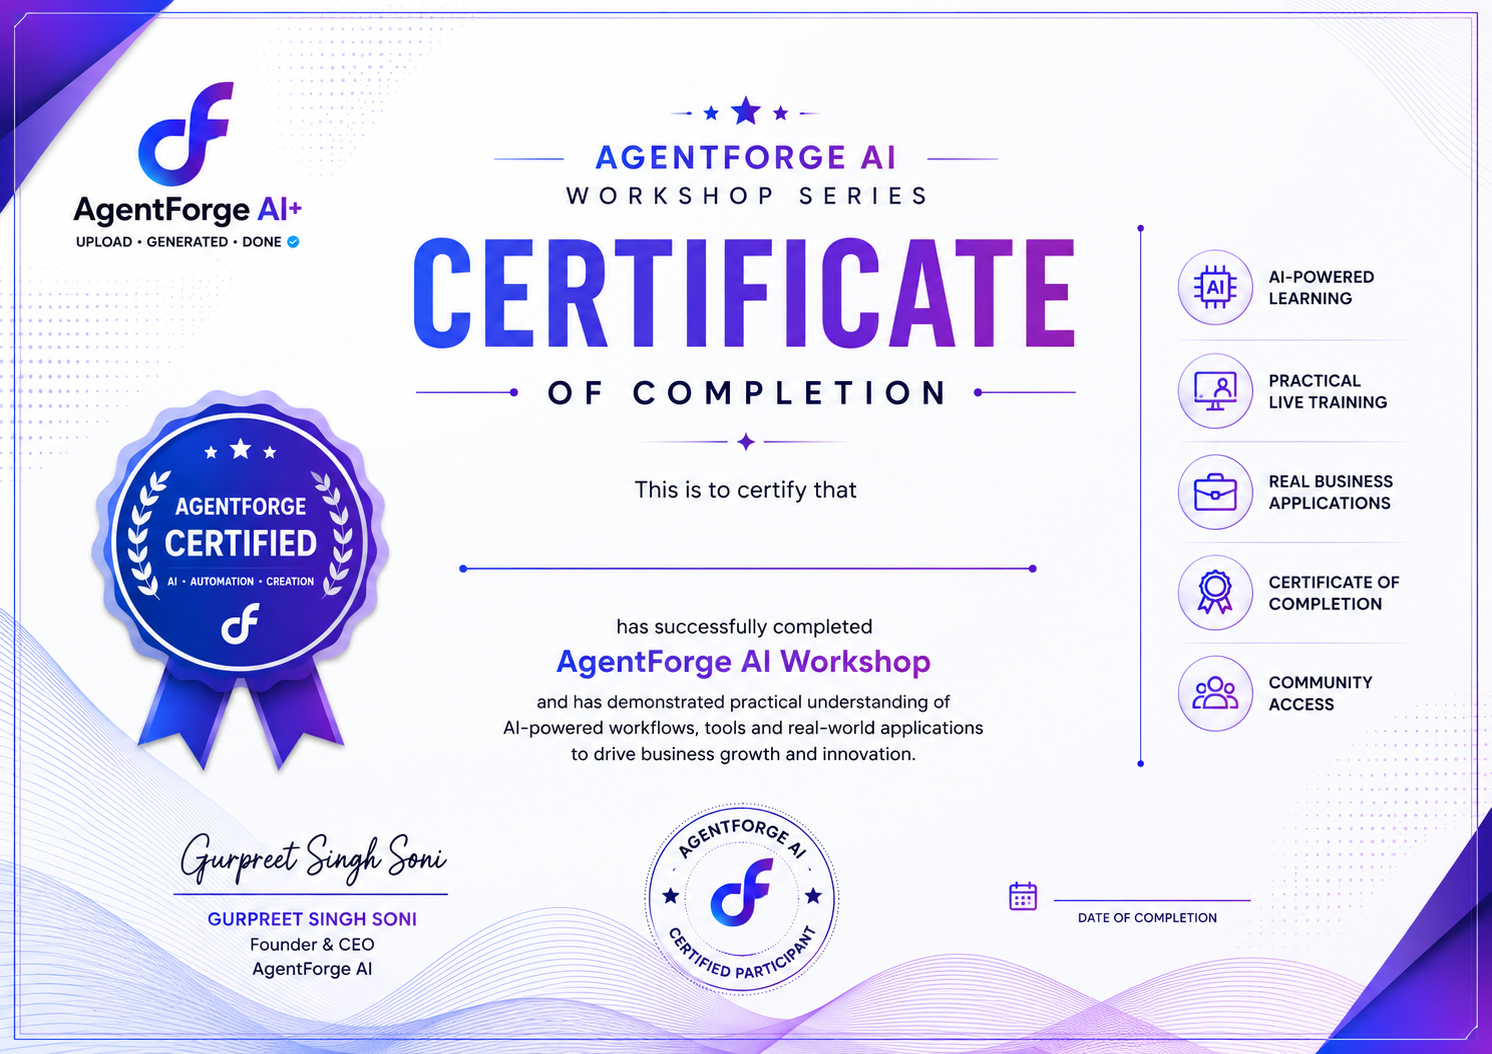
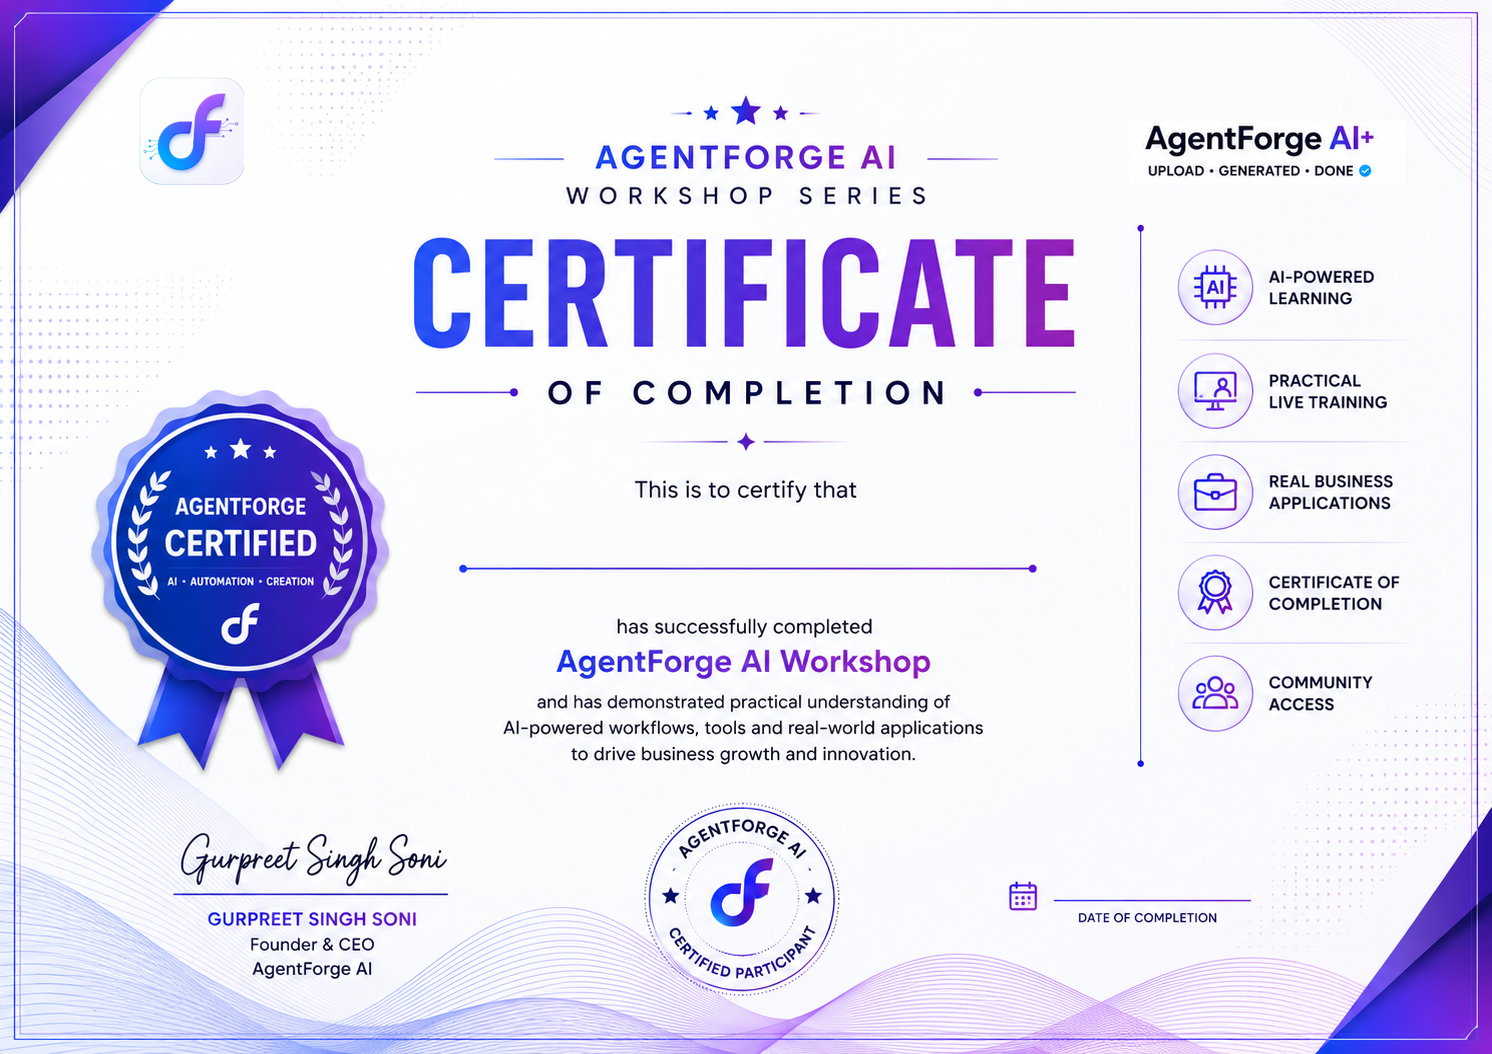
feat(certificate): new template, date locking, download logging

Changed region(s): [[0.0308, 0.0607, 0.2158, 0.2429], [0.7708, 0.1214, 0.9249, 0.1822]]

diff --git a/app/workshop/certificate/page.tsx b/app/workshop/certificate/page.tsx
@@ -1,22 +1,45 @@
 "use client";
 
 // Workshop certificate generator.
-// User apna naam + date bharte hain, preview dikhta hai, aur original
-// certificate template (public/Workshop/certificate-template.png) ke
-// upar naam/date overlay karke PDF download ho jaata hai.
+// Candidate enters name + email + picks a workshop date, sees a live
+// preview, and downloads the official certificate as a PDF. Each
+// download is logged to the backend (name, email, date).
 
 import { useEffect, useRef, useState } from "react";
 
-const TEMPLATE_SRC = "/Workshop/certificate-template.png";
+// ?v bump karo jab bhi template image replace karo — taaki browser
+// purani cached image na dikhaye.
+const TEMPLATE_SRC = "/Workshop/certificate-template.png?v=2";
 
-// Placement (template ke width/height ke fraction me). Preview dekh ke
-// agar thoda upar/neeche/left/right chahiye to ye 4 number tweak kar do.
-const NAME_X = 0.515;
-const NAME_Y = 0.595;
-const DATE_X = 0.805;
-const DATE_Y = 0.82;
+// Placement (as a fraction of the template width/height). Tweak these
+// four numbers if the name/date needs nudging on the certificate.
+const NAME_X = 0.505;
+const NAME_Y = 0.505;
+const DATE_X = 0.77;
+const DATE_Y = 0.815;
 
-// Name font ke liye elegant serif Google se load karte hain.
+// Fixed workshop dates — candidate can only pick one of these four.
+const WORKSHOP_DATES = [
+  { value: "2026-06-20", label: "20 June 2026" },
+  { value: "2026-06-21", label: "21 June 2026" },
+  { value: "2026-06-27", label: "27 June 2026" },
+  { value: "2026-06-28", label: "28 June 2026" },
+];
+
+// Decorative background doodles.
+const DOODLES = [
+  { icon: "🧵", left: "6%", top: "14%" },
+  { icon: "✂", left: "16%", top: "70%" },
+  { icon: "🪡", left: "30%", top: "22%" },
+  { icon: "👕", left: "44%", top: "78%" },
+  { icon: "🎓", left: "58%", top: "16%" },
+  { icon: "🧶", left: "70%", top: "72%" },
+  { icon: "🏆", left: "84%", top: "24%" },
+  { icon: "✨", left: "90%", top: "62%" },
+  { icon: "🧣", left: "10%", top: "44%" },
+  { icon: "📜", left: "78%", top: "46%" },
+];
+
 const FONT_FAMILY = '"Playfair Display", Georgia, serif';
 const FONT_CSS =
   "https://fonts.googleapis.com/css2?family=Playfair+Display:wght@700&display=swap";
@@ -35,7 +58,6 @@ function loadScript(src: string): Promise<boolean> {
 }
 
 function formatDate(value: string): string {
-  // value = "yyyy-mm-dd" from <input type="date">
   if (!value) return "";
   const [y, m, d] = value.split("-").map(Number);
   const months = [
@@ -46,18 +68,46 @@ function formatDate(value: string): string {
   return `${d} ${months[m - 1]} ${y}`;
 }
 
+// Dates unlock one-by-one. Date 20 (index 0) is always enabled.
+// Each next date unlocks once the PREVIOUS workshop date has arrived.
+// Returns the highest enabled index (the latest unlocked date).
+function computeEnabledIdx(): number {
+  const today = new Date();
+  today.setHours(0, 0, 0, 0);
+  let maxIdx = 0;
+  for (let i = 1; i < WORKSHOP_DATES.length; i++) {
+    if (today >= new Date(WORKSHOP_DATES[i - 1].value)) maxIdx = i;
+    else break;
+  }
+  return maxIdx;
+}
+
+function isValidEmail(email: string): boolean {
+  return /^[^\s@]+@[^\s@]+\.[^\s@]+$/.test(email.trim());
+}
+
 export default function CertificatePage() {
   const canvasRef = useRef<HTMLCanvasElement | null>(null);
   const imgRef = useRef<HTMLImageElement | null>(null);
 
   const [name, setName] = useState("");
-  const [dateValue, setDateValue] = useState("");
+  const [email, setEmail] = useState("");
+  const [dateValue, setDateValue] = useState(WORKSHOP_DATES[0].value);
+  const [enabledIdx, setEnabledIdx] = useState(0);
   const [imgReady, setImgReady] = useState(false);
   const [fontReady, setFontReady] = useState(false);
   const [downloading, setDownloading] = useState(false);
 
   const formattedDate = formatDate(dateValue);
-  const canDownload = name.trim().length > 0 && formattedDate.length > 0;
+  const canDownload =
+    name.trim().length > 0 && isValidEmail(email) && formattedDate.length > 0;
+
+  // Unlock dates based on today, and select the latest unlocked one.
+  useEffect(() => {
+    const idx = computeEnabledIdx();
+    setEnabledIdx(idx);
+    setDateValue(WORKSHOP_DATES[idx].value);
+  }, []);
 
   // Load template image once.
   useEffect(() => {
@@ -108,8 +158,8 @@ export default function CertificatePage() {
     ctx.textAlign = "center";
     ctx.textBaseline = "middle";
     ctx.fillStyle = hasName ? "#312e81" : "rgba(49,46,129,0.35)";
-    let fontSize = Math.round(W * 0.043);
-    const maxWidth = W * 0.55;
+    let fontSize = Math.round(W * 0.034);
+    const maxWidth = W * 0.5;
     ctx.font = `700 ${fontSize}px ${FONT_FAMILY}`;
     while (ctx.measureText(displayName).width > maxWidth && fontSize > 18) {
       fontSize -= 2;
@@ -124,14 +174,30 @@ export default function CertificatePage() {
     ctx.fillText(displayDate, W * DATE_X, H * DATE_Y);
   }, [name, formattedDate, imgReady, fontReady]);
 
-  const handleDownloadPdf = async () => {
+  const handleDownload = async () => {
     if (!canDownload || !canvasRef.current) return;
     setDownloading(true);
     try {
+      // Log the download to the backend (best-effort).
+      try {
+        await fetch("/api/workshop/certificate-log", {
+          method: "POST",
+          headers: { "Content-Type": "application/json" },
+          body: JSON.stringify({
+            name: name.trim(),
+            email: email.trim(),
+            date: formattedDate,
+          }),
+        });
+      } catch {
+        /* never block the download over logging */
+      }
+
       const ok = await loadScript(JSPDF_SRC);
       const jsPDF = ok ? (window as any).jspdf?.jsPDF : null;
       const canvas = canvasRef.current;
       const dataUrl = canvas.toDataURL("image/jpeg", 0.95);
+      const fileBase = `AgentForge-Certificate-${name.trim().replace(/\s+/g, "-")}`;
 
       if (jsPDF) {
         const pdf = new jsPDF({
@@ -140,12 +206,12 @@ export default function CertificatePage() {
           format: [canvas.width, canvas.height],
         });
         pdf.addImage(dataUrl, "JPEG", 0, 0, canvas.width, canvas.height);
-        pdf.save(`AgentForge-Certificate-${name.trim().replace(/\s+/g, "-")}.pdf`);
+        pdf.save(`${fileBase}.pdf`);
       } else {
-        // CDN block ho gaya to image fallback.
+        // Fallback if the CDN is blocked.
         const a = document.createElement("a");
         a.href = dataUrl;
-        a.download = `AgentForge-Certificate-${name.trim().replace(/\s+/g, "-")}.jpg`;
+        a.download = `${fileBase}.jpg`;
         a.click();
       }
     } finally {
@@ -155,32 +221,57 @@ export default function CertificatePage() {
 
   return (
     <main className="relative isolate min-h-screen overflow-hidden px-4 py-10 text-slate-950">
-      {/* Background */}
-      <div className="pointer-events-none fixed inset-0 -z-10 bg-[radial-gradient(circle_at_top_left,#22d3ee20,transparent_30%),radial-gradient(circle_at_top_right,#8b5cf620,transparent_35%),linear-gradient(180deg,#f7fbff_0%,#eef8ff_55%,#fffaf5_100%)]" />
+      {/* Background + doodles */}
+      <div className="pointer-events-none fixed inset-0 -z-10 overflow-hidden">
+        <div className="absolute inset-0 bg-[radial-gradient(circle_at_top_left,#22d3ee20,transparent_30%),radial-gradient(circle_at_top_right,#8b5cf620,transparent_35%),radial-gradient(circle_at_bottom,#f59e0b15,transparent_30%),linear-gradient(180deg,#f7fbff_0%,#eef8ff_55%,#fffaf5_100%)]" />
+        {DOODLES.map((d, i) => (
+          <div
+            key={i}
+            className="absolute rounded-[1.6rem] bg-white/70 p-3 text-3xl shadow-xl backdrop-blur-md"
+            style={{
+              left: d.left,
+              top: d.top,
+              animation: `floatDoodle ${10 + i}s ease-in-out infinite`,
+              animationDelay: `${i * 0.6}s`,
+            }}
+          >
+            {d.icon}
+          </div>
+        ))}
+      </div>
 
       <style jsx global>{`
+        @keyframes floatDoodle {
+          0% { transform: translate(0, 0) rotate(0deg); }
+          50% { transform: translate(22px, -18px) rotate(5deg); }
+          100% { transform: translate(0, 0) rotate(0deg); }
+        }
         body:has(.cert-page) header,
         body:has(.cert-page) footer {
           display: none !important;
         }
       `}</style>
 
-      <section className="cert-page mx-auto max-w-5xl">
+      <section className="cert-page relative z-10 mx-auto max-w-5xl">
         <div className="mb-8 text-center">
           <div className="mb-4 inline-flex rounded-full bg-cyan-50 px-6 py-3 text-xs font-black uppercase tracking-[0.24em] text-cyan-700">
-            Workshop Certificate
+            🎉 Congratulations
           </div>
           <h1 className="bg-gradient-to-r from-cyan-500 via-blue-600 to-violet-700 bg-clip-text text-3xl font-black tracking-tight text-transparent sm:text-5xl">
-            Download Your Certificate
+            Claim Your Certificate
           </h1>
           <p className="mx-auto mt-3 max-w-xl text-sm font-medium leading-6 text-slate-600">
-            Apna naam aur completion date bharo — preview neeche update hoga —
-            phir PDF download karo.
+            Well done! You&apos;ve successfully completed the{" "}
+            <span className="font-bold text-violet-600">
+              TextilePrints to Mockup AI Workshop
+            </span>
+            . Enter your details, pick your workshop date, and download your
+            official certificate.
           </p>
         </div>
 
         {/* Form */}
-        <div className="mx-auto mb-8 grid max-w-2xl gap-4 sm:grid-cols-2">
+        <div className="mx-auto mb-8 grid max-w-3xl gap-4 rounded-[2rem] border border-white/60 bg-white/80 p-6 shadow-xl backdrop-blur-xl sm:grid-cols-3">
           <div>
             <label className="mb-1 block text-xs font-black uppercase tracking-[0.16em] text-slate-500">
               Full Name
@@ -196,30 +287,45 @@ export default function CertificatePage() {
           </div>
           <div>
             <label className="mb-1 block text-xs font-black uppercase tracking-[0.16em] text-slate-500">
-              Completion Date
+              Email
             </label>
             <input
-              type="date"
+              type="email"
+              value={email}
+              onChange={(e) => setEmail(e.target.value)}
+              placeholder="you@example.com"
+              className="w-full rounded-2xl border border-slate-200 bg-white px-4 py-3 text-sm font-bold text-slate-800 shadow-sm outline-none focus:border-violet-400 focus:ring-2 focus:ring-violet-200"
+            />
+          </div>
+          <div>
+            <label className="mb-1 block text-xs font-black uppercase tracking-[0.16em] text-slate-500">
+              Workshop Date
+            </label>
+            <select
               value={dateValue}
               onChange={(e) => setDateValue(e.target.value)}
               className="w-full rounded-2xl border border-slate-200 bg-white px-4 py-3 text-sm font-bold text-slate-800 shadow-sm outline-none focus:border-violet-400 focus:ring-2 focus:ring-violet-200"
-            />
+            >
+              {WORKSHOP_DATES.map((d, i) => (
+                <option key={d.value} value={d.value} disabled={i > enabledIdx}>
+                  {d.label}
+                  {i > enabledIdx ? " 🔒 (locked)" : ""}
+                </option>
+              ))}
+            </select>
           </div>
         </div>
 
         {/* Preview */}
         <div className="mx-auto max-w-4xl overflow-hidden rounded-[2rem] border border-white/60 bg-white p-3 shadow-2xl shadow-cyan-100/60">
-          <canvas
-            ref={canvasRef}
-            className="h-auto w-full rounded-[1.5rem]"
-          />
+          <canvas ref={canvasRef} className="h-auto w-full rounded-[1.5rem]" />
         </div>
 
         {/* Download */}
         <div className="mt-8 text-center">
           <button
             type="button"
-            onClick={handleDownloadPdf}
+            onClick={handleDownload}
             disabled={!canDownload || downloading}
             className={`inline-flex items-center justify-center rounded-2xl px-10 py-5 text-sm font-black uppercase tracking-[0.12em] text-white shadow-2xl transition ${
               canDownload && !downloading
@@ -231,10 +337,10 @@ export default function CertificatePage() {
               ? "Generating…"
               : canDownload
                 ? "Download Certificate (PDF) →"
-                : "Fill name & date to download"}
+                : "Enter name & email to download"}
           </button>
           <p className="mt-4 text-xs font-semibold text-slate-500">
-            Certificate AgentForge AI Workshop ke liye hai.
+            Your certificate is for the AgentForge AI Workshop.
           </p>
         </div>
       </section>

diff --git a/app/api/workshop/certificate-log/route.ts b/app/api/workshop/certificate-log/route.ts
@@ -1,0 +1,59 @@
+// POST /api/workshop/certificate-log  (PUBLIC)
+// Records a certificate download (name, email, workshop date) so the
+// team can see who downloaded. Best-effort; never blocks the user.
+
+import { NextResponse } from "next/server";
+import { createClient } from "@supabase/supabase-js";
+
+export const runtime = "nodejs";
+export const dynamic = "force-dynamic";
+
+function svc() {
+  const url = process.env.NEXT_PUBLIC_SUPABASE_URL;
+  const key = process.env.SUPABASE_SERVICE_ROLE_KEY;
+  if (!url || !key) throw new Error("Supabase env missing");
+  return createClient(url, key, {
+    auth: { persistSession: false, autoRefreshToken: false },
+  });
+}
+
+export async function POST(req: Request) {
+  try {
+    const { name, email, date } = await req.json().catch(() => ({}));
+
+    if (!name || !email || !date) {
+      return NextResponse.json(
+        { error: "name, email and date are required." },
+        { status: 400 },
+      );
+    }
+
+    const emailOk = /^[^\s@]+@[^\s@]+\.[^\s@]+$/.test(String(email).trim());
+    if (!emailOk) {
+      return NextResponse.json({ error: "Invalid email." }, { status: 400 });
+    }
+
+    const db = svc();
+    const { error } = await db.from("workshop_certificates").insert({
+      name: String(name).trim().slice(0, 80),
+      email: String(email).trim().slice(0, 120),
+      certificate_date: String(date).trim().slice(0, 40),
+    });
+
+    if (error) {
+      console.error("[certificate-log] insert failed:", error);
+      return NextResponse.json(
+        { error: error.message || "Could not save record." },
+        { status: 500 },
+      );
+    }
+
+    return NextResponse.json({ ok: true });
+  } catch (error: any) {
+    console.error("certificate-log error:", error);
+    return NextResponse.json(
+      { error: error?.message || "Logging failed." },
+      { status: 500 },
+    );
+  }
+}
